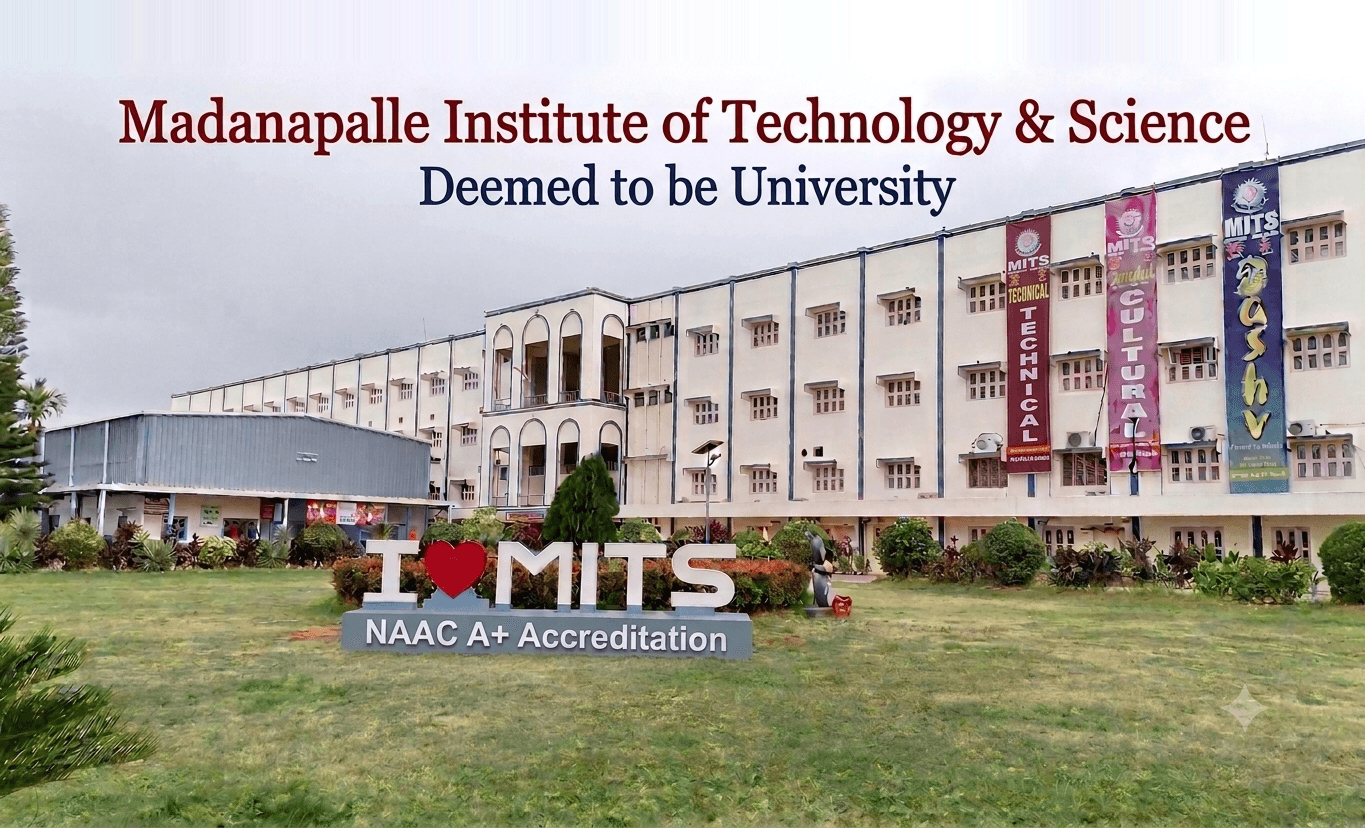
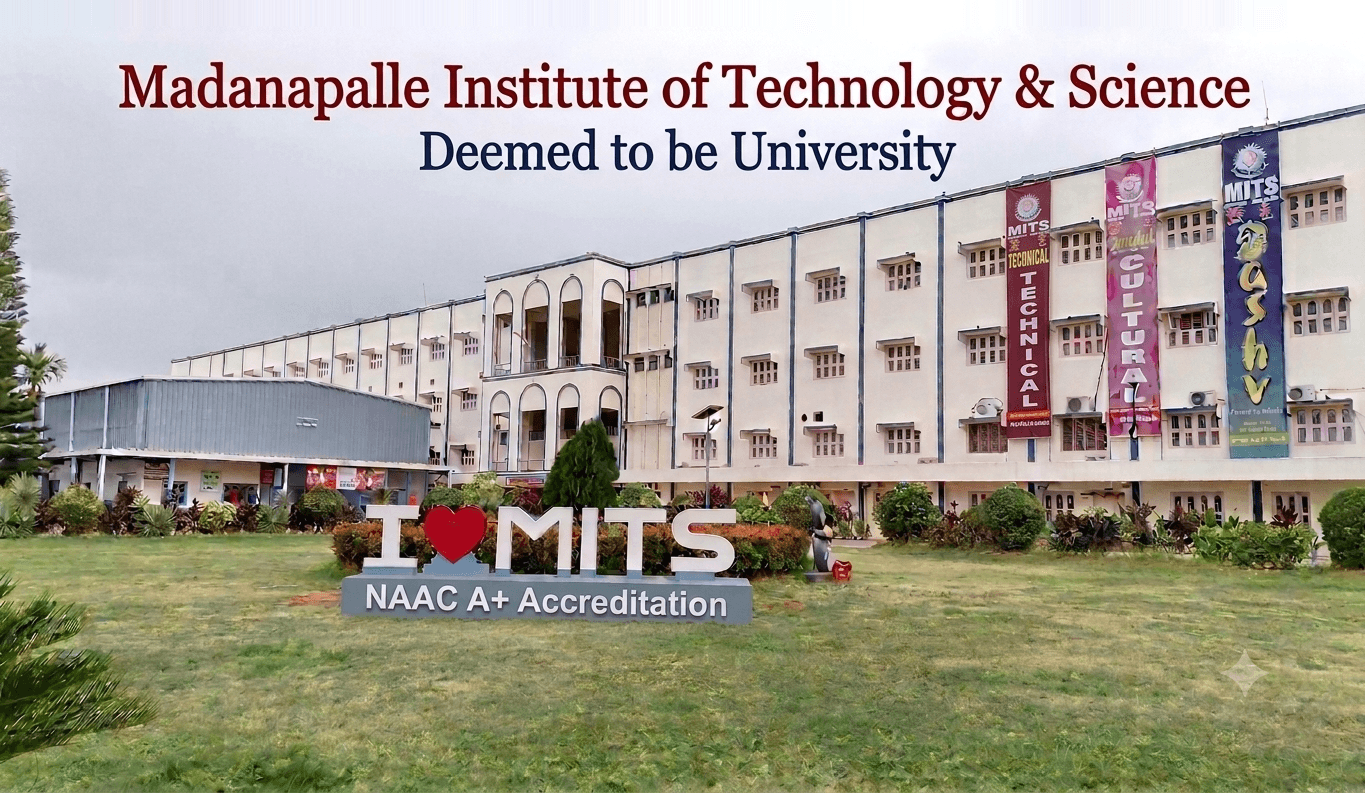
fix: adjust hero section first slide alignment to prevent bottom merge

diff --git a/src/components/HeroSection.tsx b/src/components/HeroSection.tsx
@@ -262,7 +262,7 @@ className="w-full h-full object-cover"
               className="w-full h-full"
               style={{
                 objectFit: "cover",
-                objectPosition: s.id === "identity" ? "center top" : s.id === "admissions" ? "center 30%" : s.id === "placements" ? "center 20%" : "center center",
+                objectPosition: s.id === "identity" ? "center 18%" : s.id === "admissions" ? "center 30%" : s.id === "placements" ? "center 20%" : "center center",
               }}
               initial={false}
               animate={{ scale: (s.id === "admissions" || s.id === "placements" || s.id === "identity") ? 1 : (i === current ? 1.04 : 1) }}
